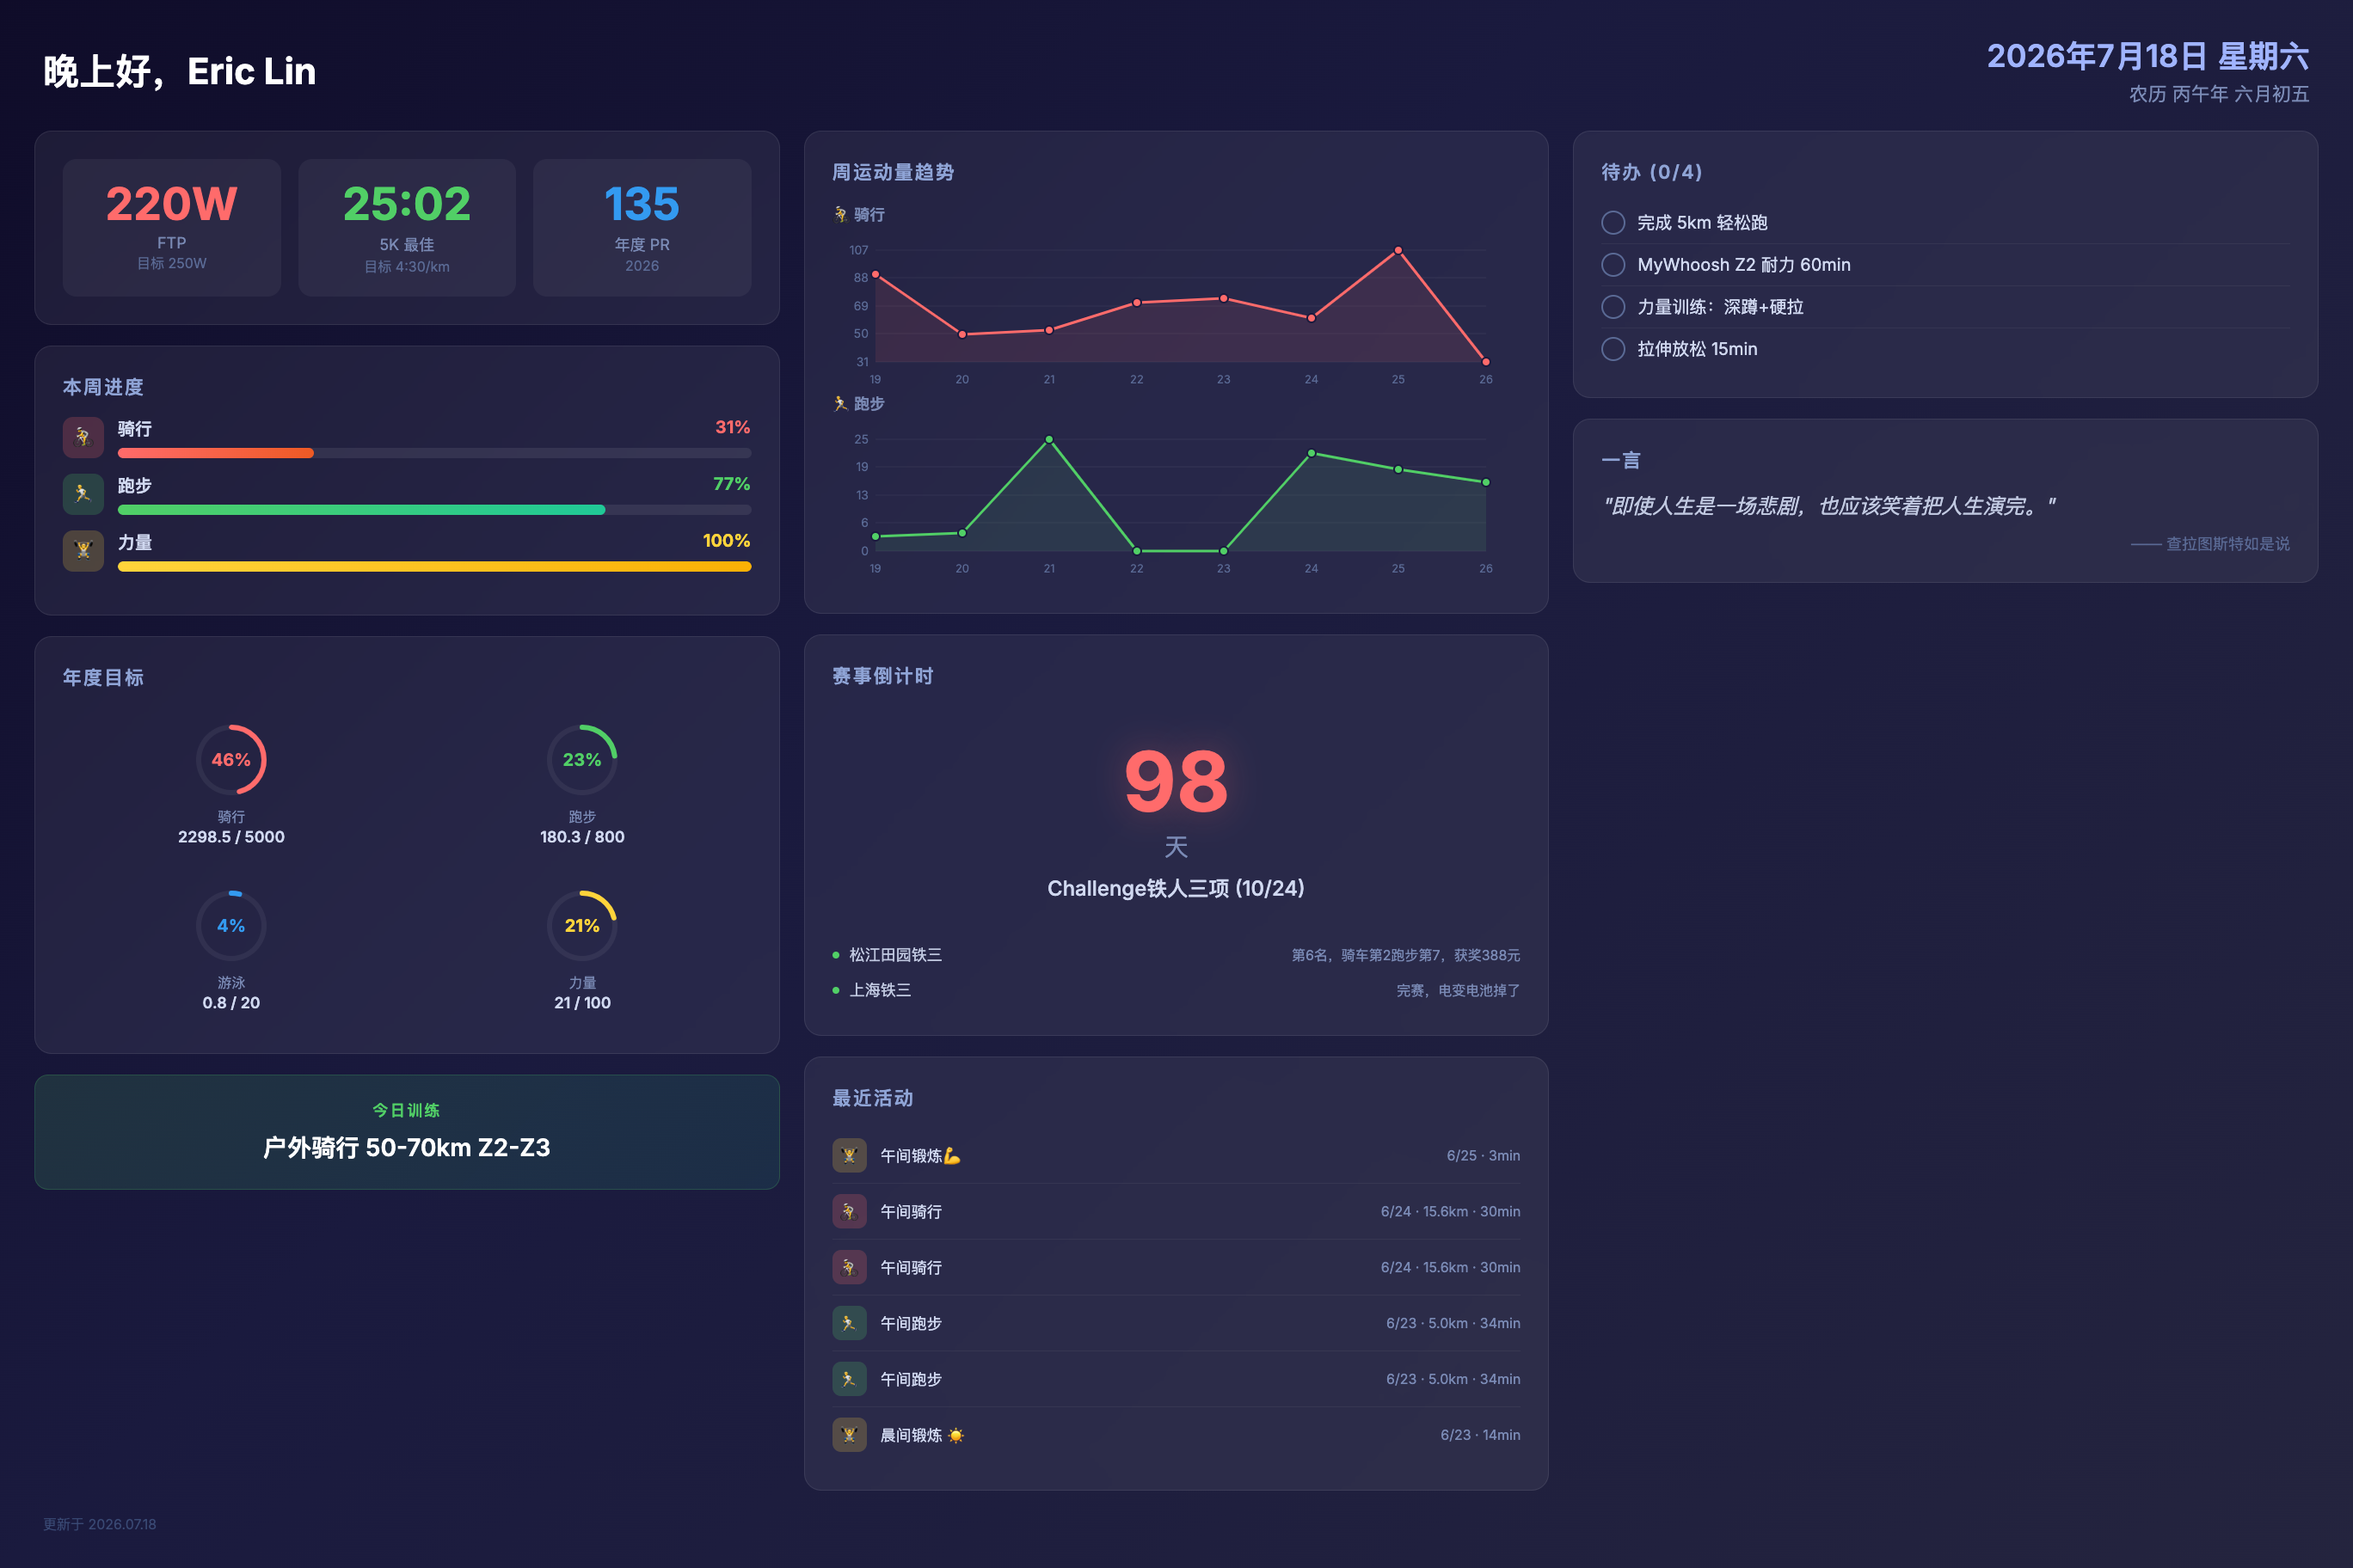
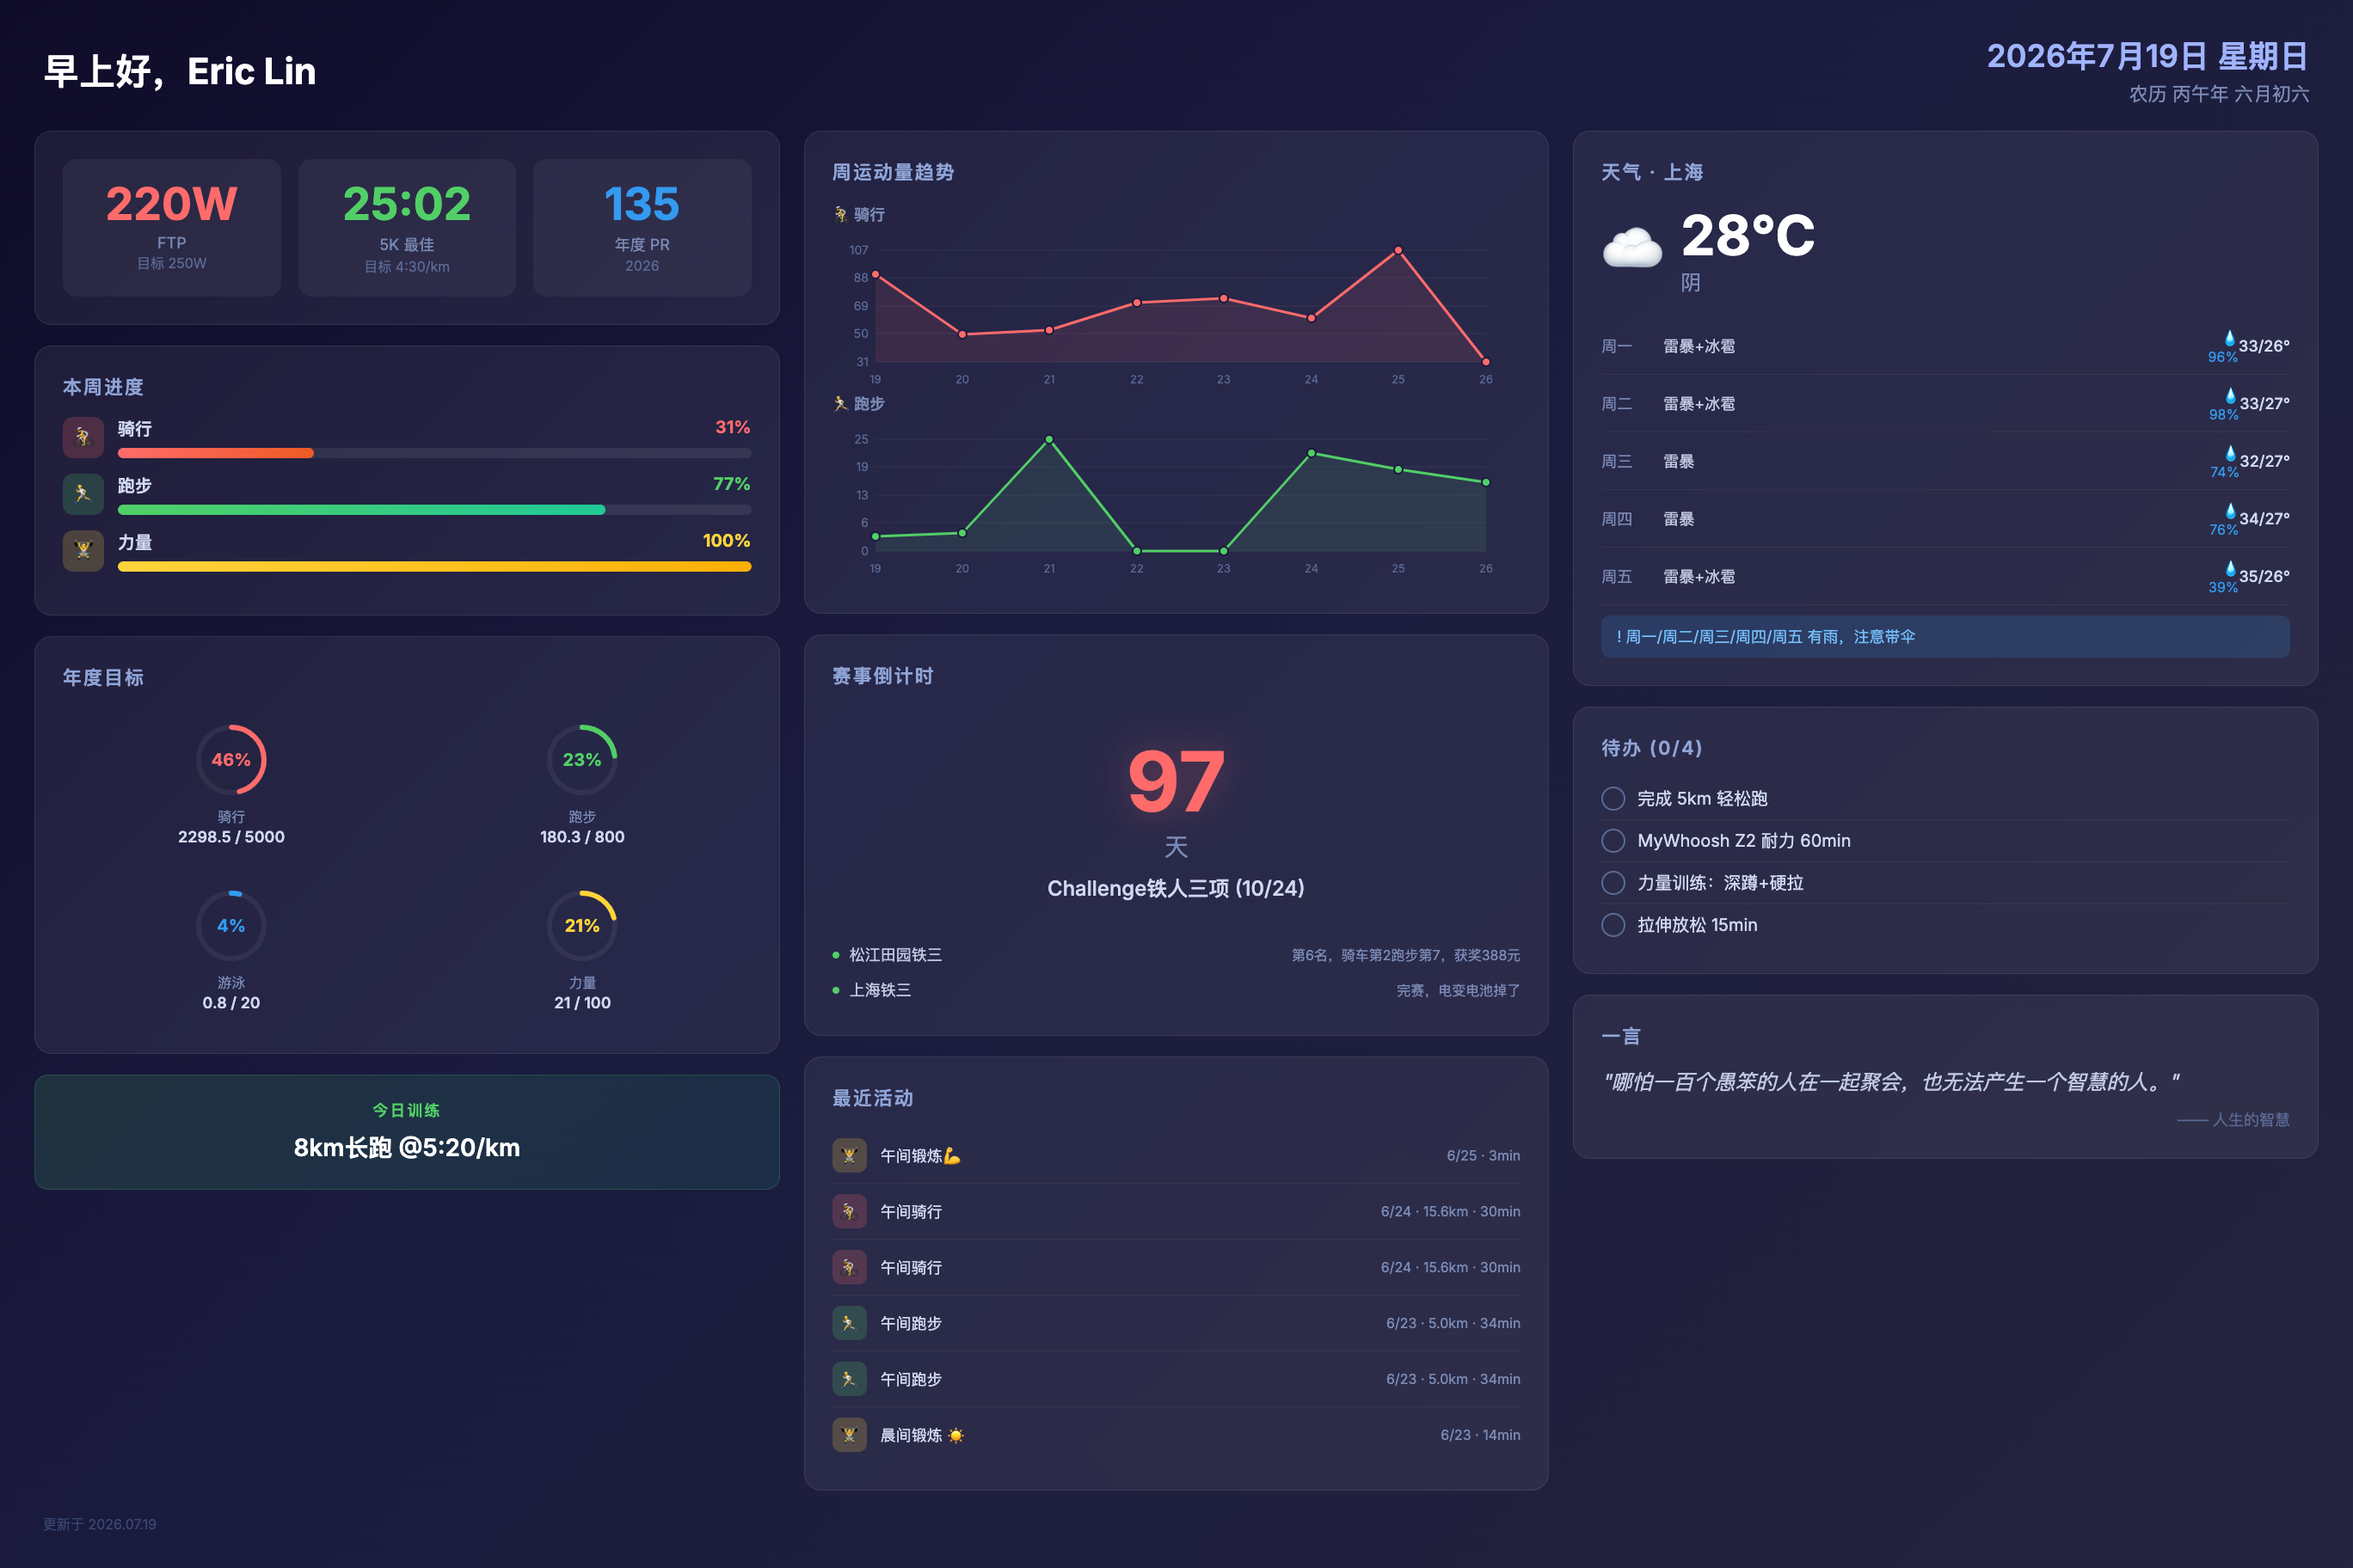
deploy: 2026-07-19-07:00

diff --git a/screensaver.html b/screensaver.html
@@ -490,13 +490,13 @@ html, body {
 <!-- ===== TOP BAR ===== -->
 <div class="top-bar">
   <div>
-    <div class="greeting">晚上好，Eric Lin</div>
+    <div class="greeting">早上好，Eric Lin</div>
     
   </div>
   <div class="date-info">
-    <div class="solar-date">2026年7月18日 星期六</div>
+    <div class="solar-date">2026年7月19日 星期日</div>
     
-    <div class="lunar-date">农历 丙午年 六月初五</div>
+    <div class="lunar-date">农历 丙午年 六月初六</div>
     
   </div>
 </div>
@@ -638,7 +638,7 @@ html, body {
   
   <div class="ai-today-card">
     <div class="ai-today-label">今日训练</div>
-    <div class="ai-today-text">户外骑行 50-70km Z2-Z3</div>
+    <div class="ai-today-text">8km长跑 @5:20/km</div>
   </div>
   
 
@@ -732,7 +732,7 @@ html, body {
   <div class="card">
     <div class="card-title">赛事倒计时</div>
     <div class="race-countdown">
-      <div class="countdown-number">98</div>
+      <div class="countdown-number">97</div>
       <div class="countdown-unit">天</div>
       <div class="countdown-name">Challenge铁人三项 (10/24)</div>
     </div>
@@ -805,6 +805,58 @@ html, body {
 
   <!-- Weather -->
   
+  <div class="card">
+    <div class="card-title">天气 · 上海</div>
+    <div class="weather-current">
+      <div class="weather-icon-big">☁</div>
+      <div>
+        <div class="weather-temp-big">28°C</div>
+        <div class="weather-desc">阴</div>
+      </div>
+    </div>
+    
+    
+    <div class="forecast-row">
+      <div class="forecast-day">周一</div>
+      <div class="forecast-desc">雷暴+冰雹</div>
+      <div class="forecast-precip">💧96%</div>
+      <div class="forecast-range">33/26°</div>
+    </div>
+    
+    <div class="forecast-row">
+      <div class="forecast-day">周二</div>
+      <div class="forecast-desc">雷暴+冰雹</div>
+      <div class="forecast-precip">💧98%</div>
+      <div class="forecast-range">33/27°</div>
+    </div>
+    
+    <div class="forecast-row">
+      <div class="forecast-day">周三</div>
+      <div class="forecast-desc">雷暴</div>
+      <div class="forecast-precip">💧74%</div>
+      <div class="forecast-range">32/27°</div>
+    </div>
+    
+    <div class="forecast-row">
+      <div class="forecast-day">周四</div>
+      <div class="forecast-desc">雷暴</div>
+      <div class="forecast-precip">💧76%</div>
+      <div class="forecast-range">34/27°</div>
+    </div>
+    
+    <div class="forecast-row">
+      <div class="forecast-day">周五</div>
+      <div class="forecast-desc">雷暴+冰雹</div>
+      <div class="forecast-precip">💧39%</div>
+      <div class="forecast-range">35/26°</div>
+    </div>
+    
+    
+    
+    <div class="rain-alert">! 周一/周二/周三/周四/周五 有雨，注意带伞</div>
+    
+  </div>
+  
 
   <!-- Todos -->
   
@@ -850,9 +902,9 @@ html, body {
   
   <div class="card">
     <div class="card-title">一言</div>
-    <div class="quote-text">"即使人生是一场悲剧，也应该笑着把人生演完。"</div>
+    <div class="quote-text">"哪怕一百个愚笨的人在一起聚会，也无法产生一个智慧的人。"</div>
     
-    <div class="quote-from">—— 查拉图斯特如是说</div>
+    <div class="quote-from">—— 人生的智慧</div>
     
   </div>
   
@@ -861,7 +913,7 @@ html, body {
 
 <!-- ===== BOTTOM BAR ===== -->
 <div class="bottom-bar">
-  <div class="update-time">更新于 2026.07.18</div>
+  <div class="update-time">更新于 2026.07.19</div>
 </div>
 
 </div>

diff --git a/life.html b/life.html
@@ -89,7 +89,7 @@ html, body {
 <table class="header-table">
   <tr>
     <td class="header-left">生活</td>
-    <td class="header-right">2026.07.18</td>
+    <td class="header-right">2026.07.19</td>
   </tr>
 </table>
 
@@ -133,16 +133,84 @@ html, body {
 
 <!-- ===== 天气 ===== -->
 
+<div class="box">
+  <p class="section-title">☀ 天气 · 上海</p>
+  <table class="weather-table">
+    <tr>
+      <td class="weather-icon">~</td>
+      <td class="weather-temp">28°C</td>
+      <td class="weather-desc">阴</td>
+    </tr>
+  </table>
+  
+  <table class="forecast-table">
+    
+    <tr>
+      <td class="forecast-day">周一</td>
+      <td class="forecast-icon">!</td>
+      <td>雷暴+冰雹</td>
+      <td class="forecast-range">33/26°C</td>
+    </tr>
+    
+    <tr>
+      <td class="forecast-day">周二</td>
+      <td class="forecast-icon">!</td>
+      <td>雷暴+冰雹</td>
+      <td class="forecast-range">33/27°C</td>
+    </tr>
+    
+    <tr>
+      <td class="forecast-day">周三</td>
+      <td class="forecast-icon">!</td>
+      <td>雷暴</td>
+      <td class="forecast-range">32/27°C</td>
+    </tr>
+    
+    <tr>
+      <td class="forecast-day">周四</td>
+      <td class="forecast-icon">!</td>
+      <td>雷暴</td>
+      <td class="forecast-range">34/27°C</td>
+    </tr>
+    
+    <tr>
+      <td class="forecast-day">周五</td>
+      <td class="forecast-icon">!</td>
+      <td>雷暴+冰雹</td>
+      <td class="forecast-range">35/26°C</td>
+    </tr>
+    
+    <tr>
+      <td class="forecast-day">周六</td>
+      <td class="forecast-icon">.</td>
+      <td>小毛雨</td>
+      <td class="forecast-range">33/27°C</td>
+    </tr>
+    
+    <tr>
+      <td class="forecast-day">周日</td>
+      <td class="forecast-icon">~</td>
+      <td>阴</td>
+      <td class="forecast-range">35/28°C</td>
+    </tr>
+    
+  </table>
+  
+  
+  <div class="rain-alert">! 周一/周二/周三/周四/周五 有雨，注意带伞</div>
+  
+</div>
+
 
 <!-- ===== 今日 ===== -->
 <div class="box">
   <p class="section-title">📅 今日</p>
   <table class="data-table">
     <tr>
-      <td>2026年7月18日 星期五</td>
+      <td>2026年7月19日 星期六</td>
     </tr>
     <tr>
-      <td>农历丙午年 六月初五</td>
+      <td>农历丙午年 六月初六</td>
     </tr>
   </table>
 </div>
@@ -193,9 +261,9 @@ html, body {
 
 <div class="box">
   <p class="section-title">💬 一言</p>
-  <p class="quote-text">即使人生是一场悲剧，也应该笑着把人生演完。</p>
+  <p class="quote-text">哪怕一百个愚笨的人在一起聚会，也无法产生一个智慧的人。</p>
   
-  <p class="quote-from">—— 查拉图斯特如是说</p>
+  <p class="quote-from">—— 人生的智慧</p>
   
 </div>
 

diff --git a/index.html b/index.html
@@ -74,7 +74,7 @@ html, body {
 <table class="header-table">
   <tr>
     <td class="header-left">Eric Lin · 运动</td>
-    <td class="header-right">2026.07.18</td>
+    <td class="header-right">2026.07.19</td>
   </tr>
 </table>
 
@@ -225,17 +225,10 @@ html, body {
 <div class="ai-plan">
   <div class="ai-plan-title">AI 训练建议</div>
   
-  <div class="ai-today">今日: 户外骑行 60km Z2-Z3</div>
+  <div class="ai-today">今日: 长跑 8km @5:20/km</div>
   
   
   <table class="ai-weekly">
-    
-    <tr>
-      <td class="day">周六</td>
-      
-      <td>户外骑行 60km Z2-Z3</td>
-      
-    </tr>
     
     <tr>
       <td class="day">周日</td>
@@ -279,6 +272,13 @@ html, body {
       
     </tr>
     
+    <tr>
+      <td class="day">周六</td>
+      
+      <td>户外骑行 60km Z2-Z3</td>
+      
+    </tr>
+    
   </table>
   
   
@@ -293,7 +293,7 @@ html, body {
   <p class="section-title">即将到来</p>
   
   <div class="countdown-box">
-    <div class="countdown-days">98</div>
+    <div class="countdown-days">97</div>
     <div class="countdown-label">距 Challenge铁人三项 (10/24)</div>
   </div>
   

diff --git a/work.html b/work.html
@@ -89,7 +89,7 @@ html, body {
 <table class="header-table">
   <tr>
     <td class="header-left">工作</td>
-    <td class="header-right">2026.07.18</td>
+    <td class="header-right">2026.07.19</td>
   </tr>
 </table>
 
